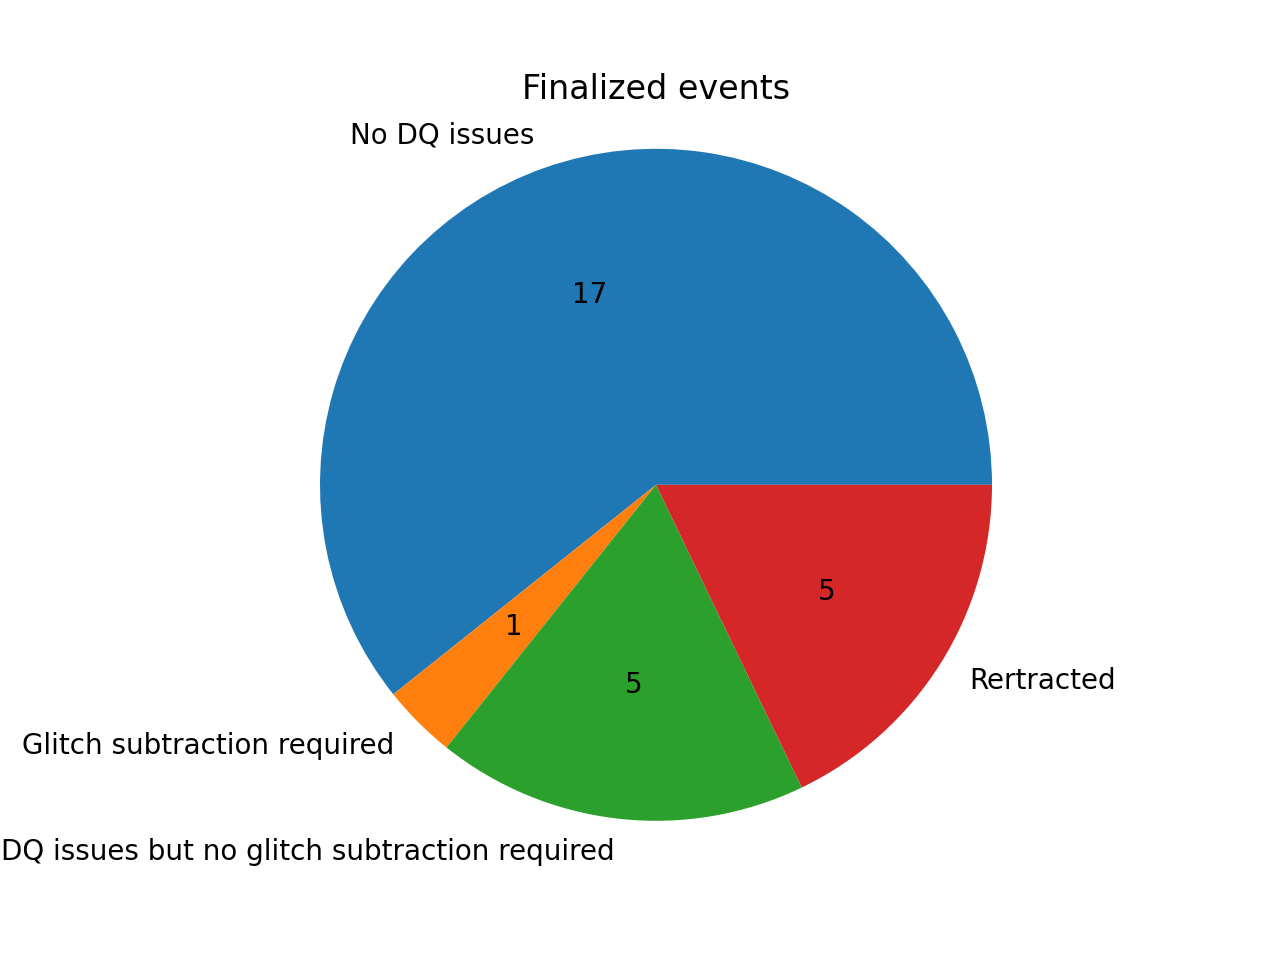
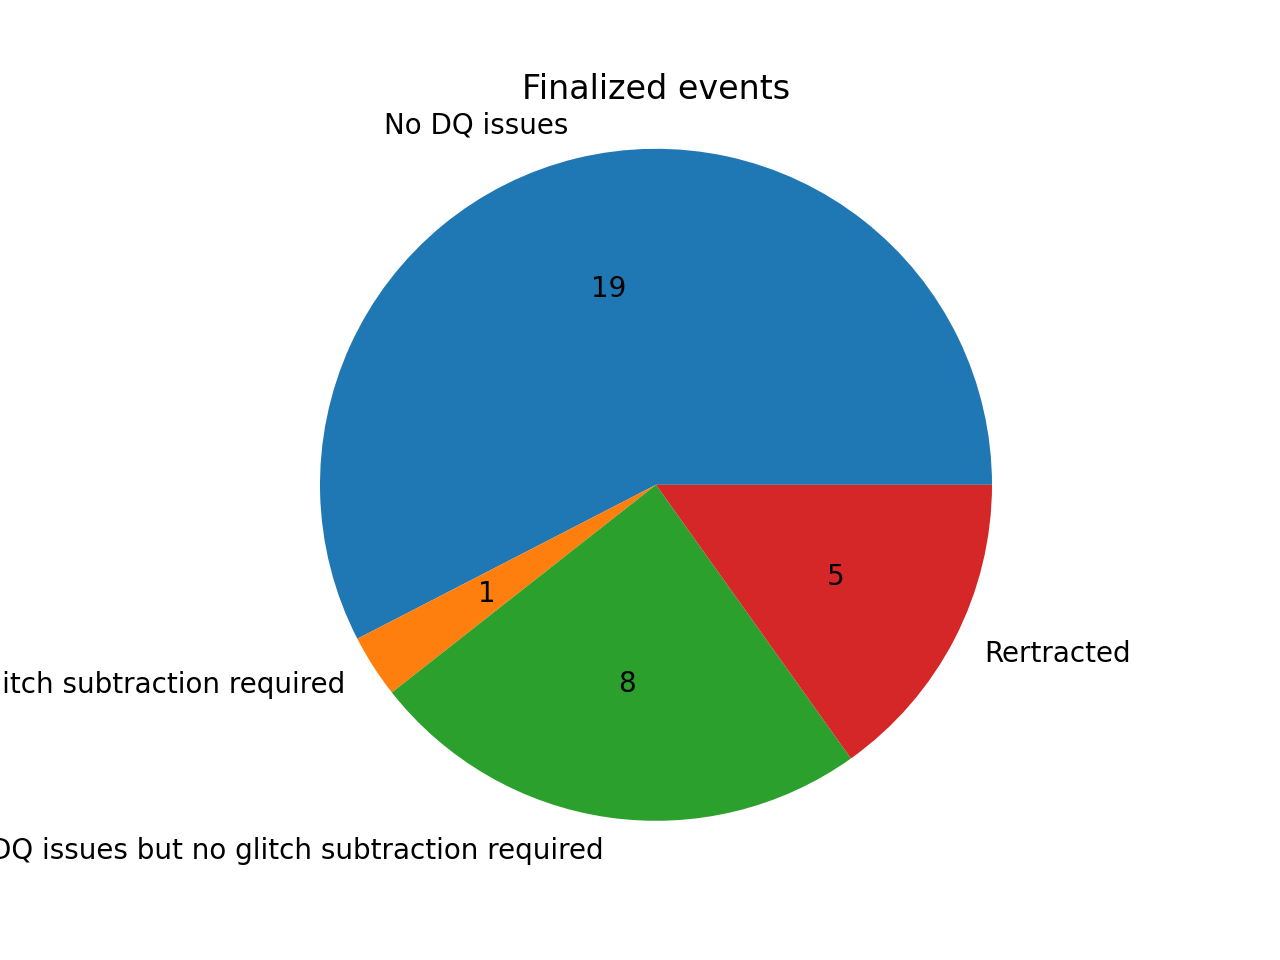
updating docs and website

diff --git a/website/O4a/index.html b/website/O4a/index.html
@@ -583,7 +583,7 @@
 <td>Alan Weinstein</td>
 <td>Debasmita Nandi</td>
 <td>Andrew Lundgren</td>
-<td></td>
+<td>S230811n, S230814r, S230814ah</td>
 <td></td>
 <td></td>
 </tr>

diff --git a/docs/O4a.md b/docs/O4a.md
@@ -28,7 +28,7 @@ Currently we split the shifts at 4pm UTC time.
 | July 19     | Yanyan Zheng            | Max Trevor              | Laura Nuttall  | S230723ac, S230726a |  |     |
 | July 26     | Adrian Helmling-Cornell | Ronaldas Macas          | Jess McIver    | S230729z, S230731an, S230802aq | [RM](https://dcc.ligo.org/G2301496) | |
 | August 2    | Yanyan Zheng            | Adrian Helmling-Cornell | Brennan Hughey | S230805x, S230806ak, S230807f, S230808i |       | |
-| August 9    | Alan Weinstein          | Debasmita Nandi         | Andrew Lundgren|        |       | |
+| August 9    | Alan Weinstein          | Debasmita Nandi         | Andrew Lundgren| S230811n, S230814r, S230814ah |       | |
 | August 16   | Zach Yarbrough          | Sudhagar Suyamprakasam  | Adrian HC      |        |       | |
  
 ## Events
